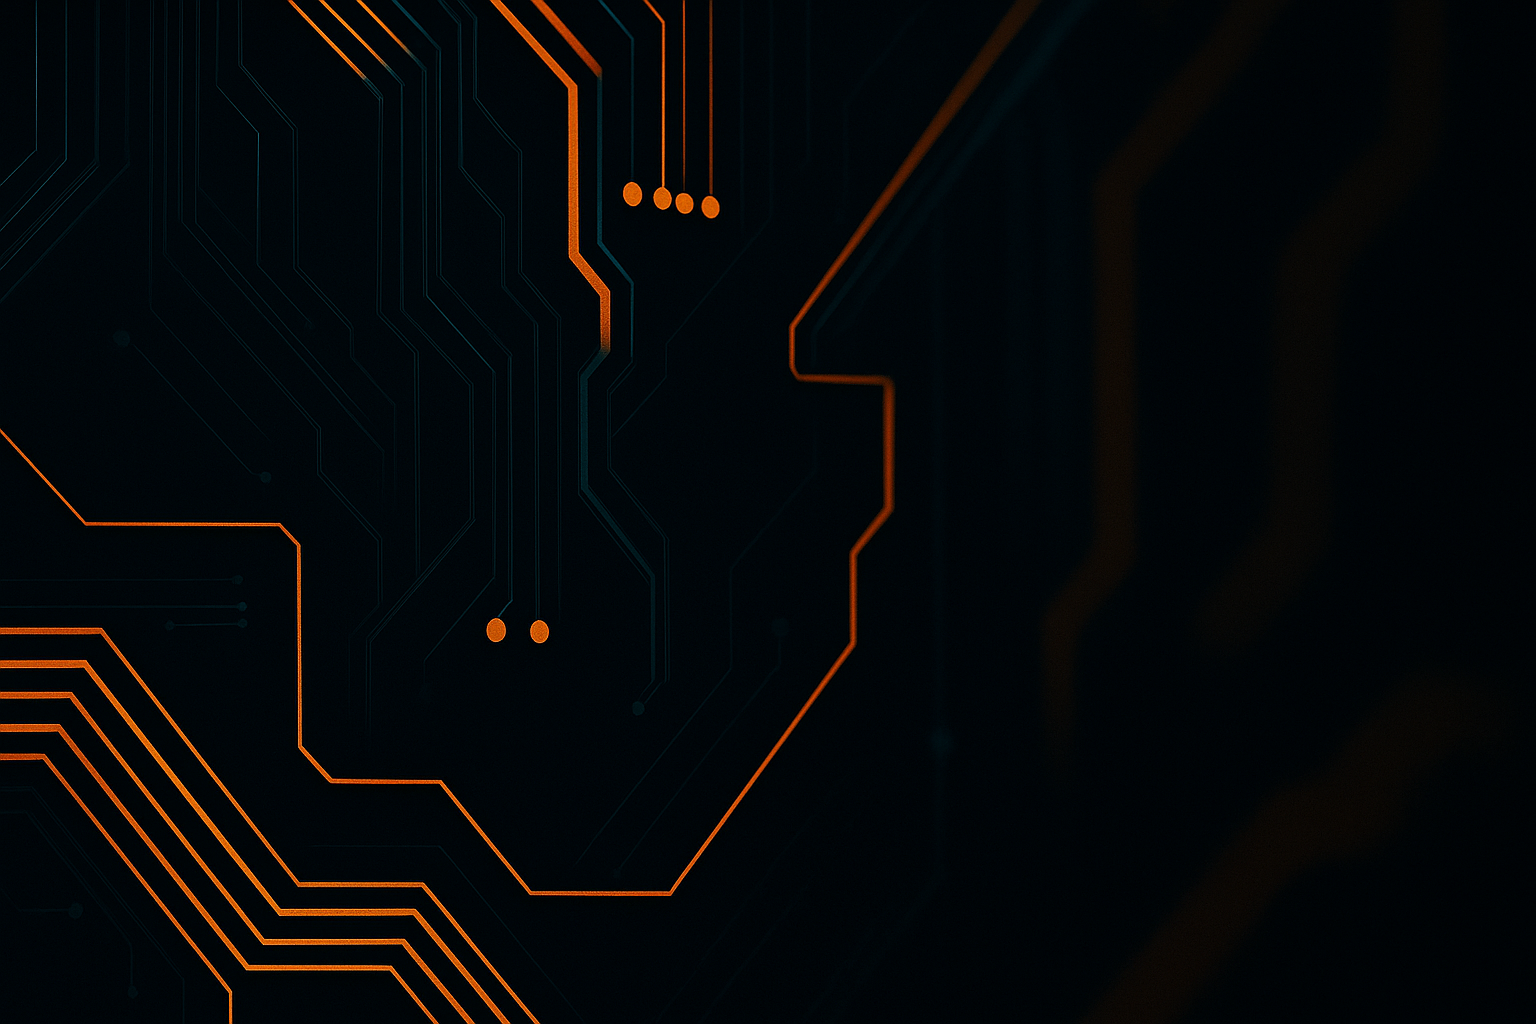
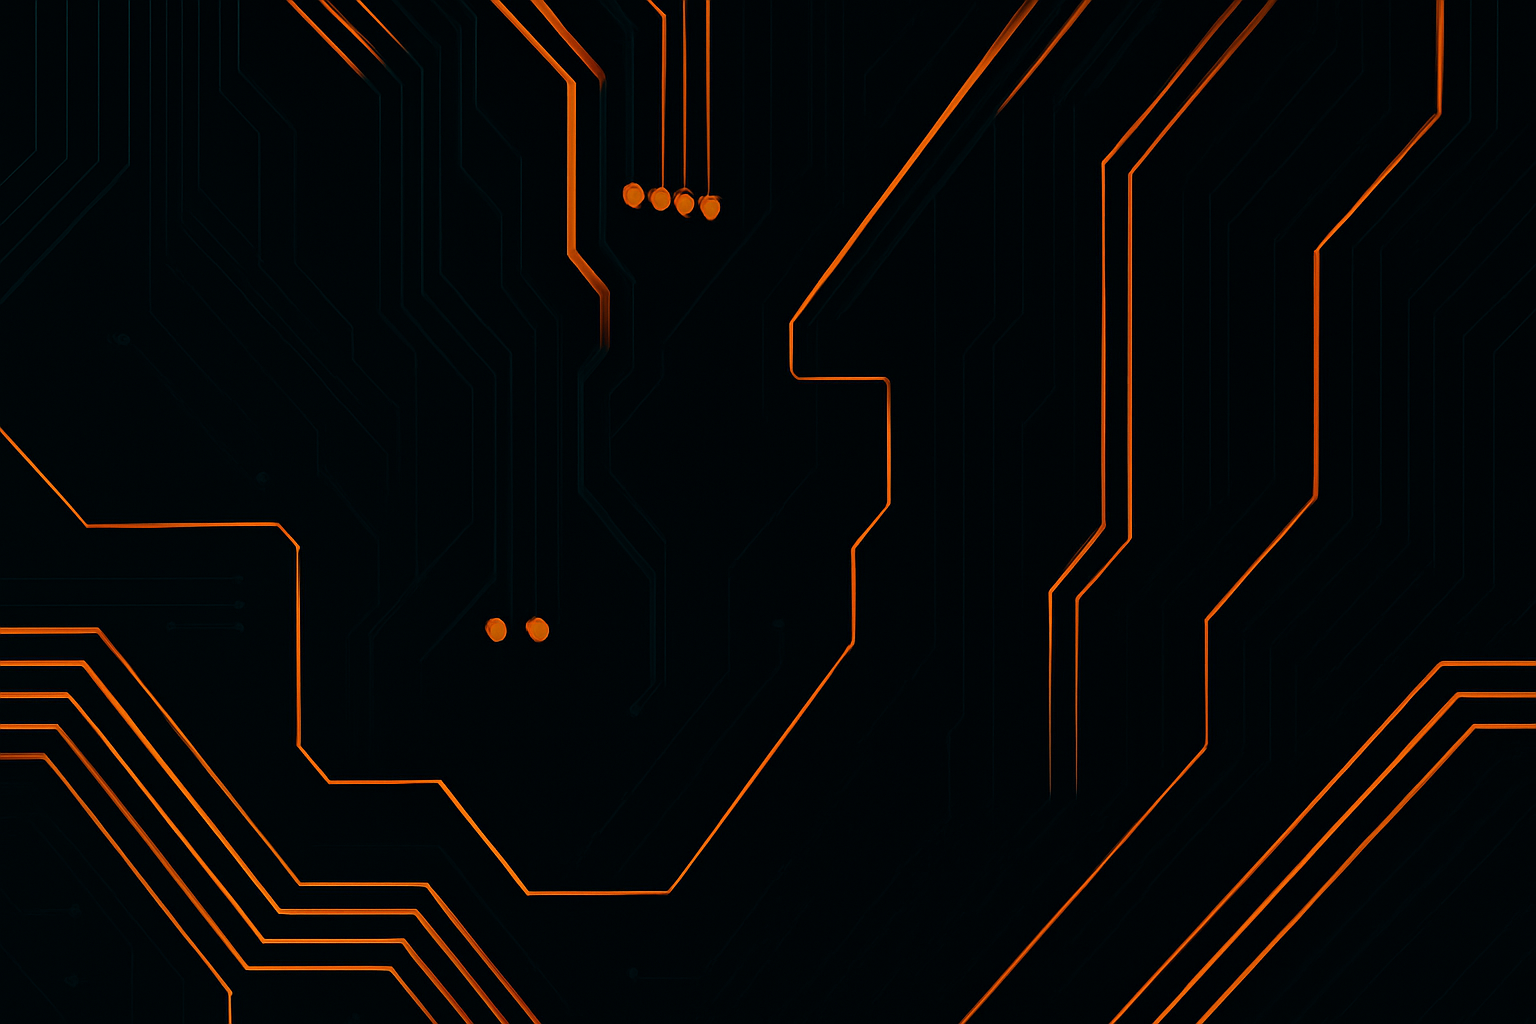
Your meaningful commit message

diff --git a/src/Page/HomePage.jsx b/src/Page/HomePage.jsx
@@ -8,7 +8,7 @@ import fusion from '../images/fc.jpg';
 import digital from '../images/dg.jpg';
 import lawful from '../images/lw.jpg';
 import osint from '../images/os.webp';
-import leftImage from '../images/left.png';
+import leftImage from '../images/men.png';
 import rightImage from '../images/right.png';
 import circleImage from '../images/cc.png';
 
@@ -136,10 +136,7 @@ const HomePage = () => {
     <div className="banner-images">
       <img src={leftImage} alt="Left Side" className="side-img" />
 
-      {/* Vertical white split line */}
       <div className="vertical-line"></div>
-
-      {/* Circle logo */}
       <div className="circle-wrapper">
         <img src={circleImage} alt="Center Circle" className="circle-img" />
       </div>
@@ -152,8 +149,6 @@ const HomePage = () => {
     AI-powered Intelligence Solutions for Every Critical Situation
   </h2>
 </section>
-
-
       <section>
         <div className="basics-section">
           <h2 className="section-title">Approaches we take to empower law enforcement</h2>
